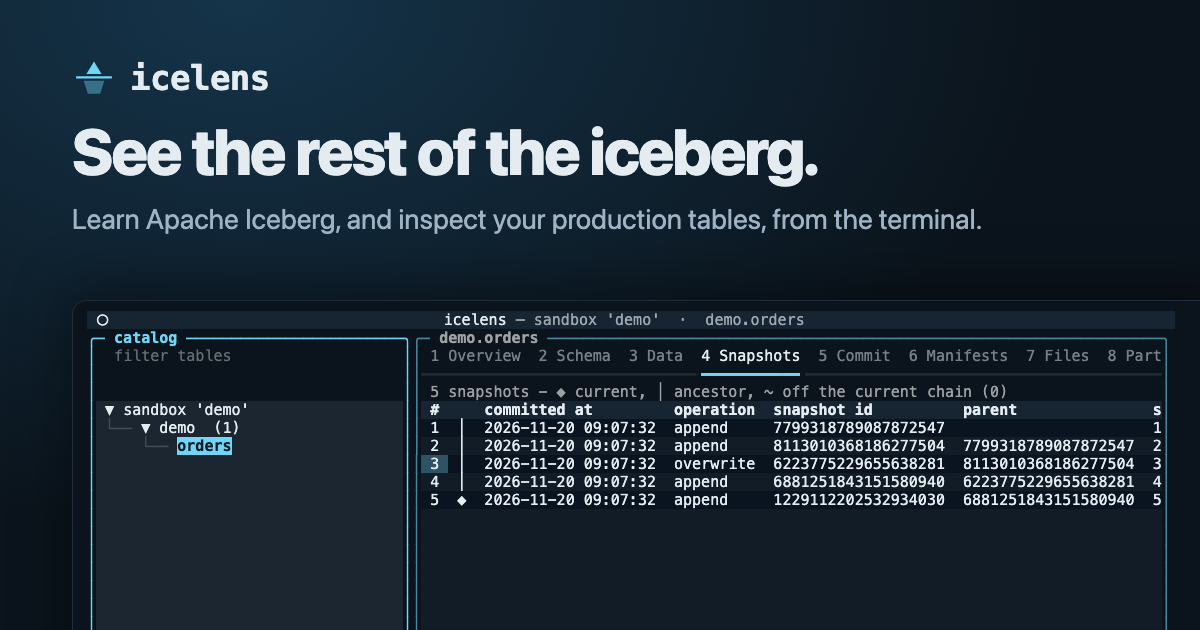
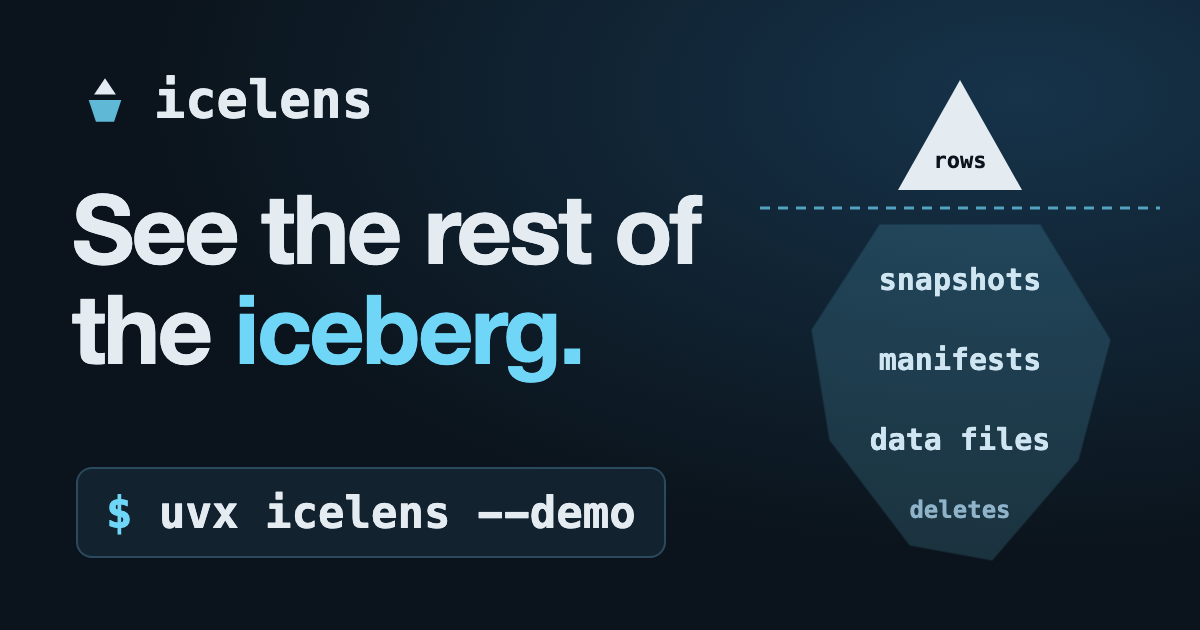
Draw the social card to be read at the size LinkedIn shows it
LinkedIn shows a shared link's image about 320px wide, where the old card's tagline and terminal shrank to 4-7px. The new one carries only what reads at that size: the name, the headline, the command to try, and the iceberg's layers. Its source is scripts/card.html.

diff --git a/scripts/card.html b/scripts/card.html
@@ -1,0 +1,30 @@
+<!-- The social card, site/og.png, which LinkedIn shows about 320px wide: everything on it is
+     large enough to read at that size. Redraw it with Chrome on macOS (the SF fonts):
+     "Google Chrome" --headless=new --hide-scrollbars --window-size=1200,630 --screenshot=site/og.png scripts/card.html -->
+<!doctype html><html><head><meta charset="utf-8"><style>
+html,body{margin:0;width:1200px;height:630px;overflow:hidden}
+body{background:radial-gradient(ellipse at 85% 15%,#16334a 0,#0b141c 60%);color:#e4ecf2;font-family:-apple-system,"SF Pro Display","Helvetica Neue",Arial,sans-serif;position:relative}
+.mark{position:absolute;left:76px;top:70px;display:flex;align-items:center;gap:20px;font:600 52px "SF Mono",Menlo,monospace;color:#e4ecf2}
+.mark svg{width:58px;height:58px}
+h1{position:absolute;left:72px;top:178px;margin:0;font-size:96px;line-height:1.04;font-weight:800;letter-spacing:-2.5px;white-space:nowrap}
+h1 em{font-style:normal;color:#6fd6f7}
+.cmd{position:absolute;left:76px;bottom:72px;font:600 44px "SF Mono",Menlo,monospace;color:#e4ecf2;background:#13222f;border:2px solid #2b4a60;border-radius:16px;padding:18px 28px}
+.cmd b{color:#6fd6f7;font-weight:600}
+.berg{position:absolute;right:40px;top:40px;width:400px;height:550px}
+</style></head><body>
+<div class="mark"><svg viewBox="0 0 32 32"><path d="M16 4 L22 13 H10 Z" fill="#e4ecf2"/><path d="M7 16 H25 L21 28 H11 Z" fill="#6fd6f7" opacity=".85"/></svg>icelens</div>
+<h1>See the rest of<br>the <em>iceberg.</em></h1>
+<div class="cmd"><b>$</b> uvx icelens --demo</div>
+<svg class="berg" viewBox="0 0 400 550">
+  <path d="M200 40 L262 150 L138 150 Z" fill="#e4ecf2"/>
+  <line x1="0" y1="168" x2="400" y2="168" stroke="#6fd6f7" stroke-width="3" stroke-dasharray="10 8" opacity=".7"/>
+  <path d="M120 185 L280 185 L350 300 L318 420 L232 520 L150 505 L70 400 L52 290 Z" fill="#6fd6f7" opacity=".16" stroke="#6fd6f7" stroke-opacity=".5" stroke-width="2"/>
+  <g font-family="SF Mono,Menlo,monospace" font-size="30" font-weight="600" fill="#cfe6f2" text-anchor="middle">
+    <text x="200" y="128" fill="#0b141c" font-size="22">rows</text>
+    <text x="200" y="250">snapshots</text>
+    <text x="200" y="330">manifests</text>
+    <text x="200" y="410">data files</text>
+    <text x="200" y="478" font-size="24" fill="#8fb3c8">deletes</text>
+  </g>
+</svg>
+</body></html>

diff --git a/scripts/build_site.py b/scripts/build_site.py
@@ -840,7 +840,7 @@ def social(path: str, title: str, description: str) -> str:
         f'<meta property="og:image" content="{site}/{CARD}">',
         '<meta property="og:image:width" content="1200">',
         '<meta property="og:image:height" content="630">',
-        '<meta property="og:image:alt" content="icelens in a terminal, showing a table\'s snapshots">',
+        '<meta property="og:image:alt" content="icelens: see the rest of the iceberg. Above the waterline, rows; below it, snapshots, manifests, data files and deletes. uvx icelens --demo">',
         '<meta name="twitter:card" content="summary_large_image">',
         f'<meta name="twitter:title" content="{title}">',
         f'<meta name="twitter:description" content="{description}">',
